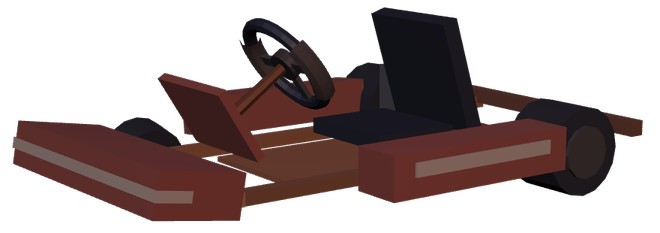
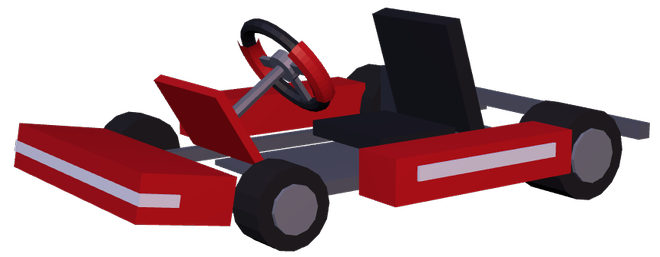
Fim do ep. 2: kart arrumado nas cores da Vórtex, placa VÓRTEX RACING TEAM em neon e textos (a roda voltou, o Rui não)

diff --git a/index.html b/index.html
@@ -2,10 +2,10 @@
 <html lang="pt-BR">
 <meta charset="utf-8">
 <meta name="viewport" content="width=device-width, initial-scale=1, viewport-fit=cover">
-<title>Seletiva de pilotos: a vaga está aberta</title>
-<meta name="description" content="O Rui foi buscar a roda e não voltou. Faça o teste de reflexo e dispute a vaga de piloto da equipe dos seguidores.">
+<title>Seletiva Vórtex: a vaga de piloto está aberta</title>
+<meta name="description" content="A roda voltou, mas o Rui não. Faça o teste de reflexo e dispute uma vaga de piloto na Vórtex Racing Team.">
 <meta name="theme-color" content="#070b1d">
-<meta property="og:title" content="Seletiva de pilotos: a vaga está aberta">
+<meta property="og:title" content="Seletiva Vórtex: a vaga de piloto está aberta">
 <meta property="og:description" content="As lâmpadas da garagem apagaram? Toca! Os mais rápidos viram os pilotos da equipe.">
 <link rel="icon" type="image/svg+xml" href="favicon.svg">
 <link rel="preconnect" href="https://fonts.googleapis.com">
@@ -72,9 +72,20 @@
       repeating-linear-gradient(180deg, var(--parede) 0 26px, var(--tabua) 26px 29px);
   }
   /* porta de enrolar à esquerda e mural de cortiça à direita, como na garagem do ep. 1 */
-  #palco::before { content: ""; position: absolute; z-index: -1; left: -6%; top: 22%; width: 38%; height: 52%; background: repeating-linear-gradient(180deg, #5d5a62 0 13px, #4a474f 13px 16px); border-radius: 0 6px 0 0; opacity: .8; }
+  #palco::before { content: ""; position: absolute; z-index: -1; left: -6%; top: 38%; width: 38%; height: 34%; background: repeating-linear-gradient(180deg, #5d5a62 0 13px, #4a474f 13px 16px); border-radius: 0 6px 0 0; opacity: .8; }
   #palco::after { content: ""; position: absolute; z-index: -1; right: 5%; top: 24%; width: 34%; height: 25%; background: var(--cortica); border-radius: 4px; box-shadow: inset 0 0 0 5px #8f5c31; opacity: .85; }
   .papel { position: absolute; z-index: 0; right: 9%; top: 25.5%; width: 26%; aspect-ratio: 4 / 3; background: #f4efe1; transform: rotate(3deg); color: #1b1b22; font-size: clamp(9px, 2.7vw, 14px); box-shadow: 0 3px 6px rgba(0,0,0,.35); font-weight: 900; text-align: center; line-height: 1.1; padding: 4px 2px; box-sizing: border-box; display: grid; place-items: center; }
+  /* placa da equipe em neon, igual à da porta no ep. 2 */
+  .placa { position: absolute; z-index: 0; left: 5%; top: 22.5%; width: 52%; display: flex; align-items: center; gap: 4%; padding: 2.2% 3%; box-sizing: border-box; background: linear-gradient(#1b1c24, #121319); border: 2px solid #2c2e3a; border-radius: 6px; box-shadow: 0 4px 10px rgba(0,0,0,.45), 0 0 22px rgba(255,42,42,.28); filter: drop-shadow(0 0 5px rgba(255,42,42,.55)); animation: neon 1.4s steps(1) 1 both; }
+  .placa .redemoinho { width: 22%; flex: none; overflow: visible; }
+  .placa .redemoinho g { transform-origin: center; animation: gira 7s linear infinite; }
+  .placa > div { display: flex; flex-direction: column; align-items: flex-start; line-height: .92; min-width: 0; }
+  .placa .vx { padding: .14em .06em 0 0; line-height: 1; font-weight: 900; font-style: italic; font-size: clamp(17px, 5.6vw, 30px); letter-spacing: .02em; transform: skewX(-10deg); background: linear-gradient(#ffffff 45%, #ffb3b3 60%, #ff2a2a); -webkit-background-clip: text; background-clip: text; color: transparent; -webkit-text-stroke: 1px #7a0a0e; }
+  .placa .rt { display: flex; align-items: center; gap: 4px; font-weight: 900; font-size: clamp(5.5px, 1.6vw, 9px); letter-spacing: .2em; color: #fff; margin-top: 2px; white-space: nowrap; }
+  .placa .rt i { width: 1.6em; height: 2px; background: #ff2a2a; }
+  @keyframes gira { to { transform: rotate(-360deg); } }
+  @keyframes neon { 0% { opacity: .15; } 10% { opacity: 1; } 18% { opacity: .2; } 26% { opacity: 1; } 34% { opacity: .35; } 42%, 100% { opacity: 1; } }
+  @media (prefers-reduced-motion: reduce) { .placa, .placa .redemoinho g { animation: none; } }
   .papel b { color: var(--vermelho); display: block; font-size: 1.25em; letter-spacing: -.02em; }
   .papel::before { content: ""; position: absolute; top: 4px; left: 50%; width: 8px; height: 8px; margin-left: -4px; border-radius: 50%; background: var(--vermelho); }
   #palco.acesas { box-shadow: var(--sombra), inset 0 0 120px rgba(255,40,30,.22); }
@@ -196,12 +207,13 @@
       <span class="tag amarela">Vaga aberta</span>
       <button class="chip" id="som" type="button" aria-pressed="true">🔊</button>
     </div>
-    <h1><span class="antes">o rui foi buscar a roda e não voltou.</span><span class="forte">quem vai pilotar?</span></h1>
+    <h1><span class="antes">a roda voltou. o rui, não.</span><span class="forte">quem vai pilotar?</span></h1>
     <div class="pips"><div class="pip"></div><div class="pip"></div><div class="pip"></div><div class="pip"></div><div class="pip"></div><span class="contador" id="contador">Largada 1/5</span></div>
   </header>
 
   <main id="palco" aria-live="polite">
-    <div class="papel" aria-hidden="true"><div><b>PROCURA-SE</b>piloto<br>(e uma roda)</div></div>
+    <div class="placa" aria-hidden="true"><svg class="redemoinho" viewBox="-50 -50 100 100"><g><path d="M 0 -40 A 40 40 0 0 1 34.6 20" fill="none" stroke="#fff" stroke-width="14" stroke-linecap="round"/><path d="M 0 -40 A 40 40 0 0 1 34.6 20" transform="rotate(120)" fill="none" stroke="#ff2a2a" stroke-width="11" stroke-linecap="round"/><path d="M 0 -40 A 40 40 0 0 1 34.6 20" transform="rotate(240)" fill="none" stroke="#ff2a2a" stroke-width="8" stroke-linecap="round"/><path d="M 0 -20 A 20 20 0 0 1 17.3 10" transform="rotate(60)" fill="none" stroke="#ff8a8a" stroke-width="8" stroke-linecap="round"/><path d="M 0 -20 A 20 20 0 0 1 17.3 10" transform="rotate(180)" fill="none" stroke="#ff8a8a" stroke-width="8" stroke-linecap="round"/><path d="M 0 -20 A 20 20 0 0 1 17.3 10" transform="rotate(300)" fill="none" stroke="#ff8a8a" stroke-width="8" stroke-linecap="round"/></g></svg><div><div class="vx">VÓRTEX</div><div class="rt"><i></i>RACING TEAM<i></i></div></div></div>
+    <div class="papel" aria-hidden="true"><div><b>PROCURA-SE</b>pilotos<br>(5 vagas)</div></div>
     <div class="lampadas" aria-hidden="true"></div>
     <div class="meio">
       <div class="cronometro" id="cronometro">
@@ -210,8 +222,8 @@
       </div>
       <p class="status" id="status"></p>
     </div>
-    <!-- o kart enferrujado do ep. 1, sem a roda dianteira (render 3D da série: src/equipe/KartSite.tsx) -->
-    <img class="kart" src="kart.png" width="660" height="233" alt="" draggable="false">
+    <!-- o kart arrumado do fim do ep. 2, nas cores da Vórtex (render 3D da série: src/equipe/KartSite.tsx) -->
+    <img class="kart" src="kart.png?v=2" width="660" height="257" alt="" draggable="false">
 
     <section id="resultado" hidden>
       <div class="card ficha">
@@ -265,7 +277,7 @@
       </div>
       <div id="intro-avatar"></div>
     </div>
-    <p>O Rui foi buscar a roda e não voltou. A <b id="nome-equipe">equipe dos seguidores</b> precisa de gente no volante: <b>Piloto 1</b>, <b>Piloto 2</b> e <b>pilotos de teste</b>.</p>
+    <p>A roda voltou, mas o Rui não. A <b id="nome-equipe">Vórtex</b> precisa de gente no volante: <b>Piloto 1</b>, <b>Piloto 2</b> e <b>pilotos de teste</b>.</p>
     <ul class="fatos">
       <li><b class="n">1</b><span>As 5 lâmpadas da garagem acendem, uma por segundo. Quando todas apagarem, toque na tela (no computador, barra de espaço). Cada rodada tem 5 largadas.</span></li>
       <li><b class="n">2</b><span>Tocou com a luz acesa? Largada queimada: vale 1 segundo na sua média.</span></li>
@@ -281,7 +293,7 @@
 
 <script>
   // ---------- AJUSTE AQUI ----------
-  const EQUIPE = "equipe dos seguidores"; // o nome ainda está sendo escolhido nos comentários do ep. 1
+  const EQUIPE = "Vórtex";               // nome dado pelo Nando no ep. 2
   const PERFIL = "@formula1explica";      // aparece no card de story
   const PILOTOS_TESTE = 3;                // vagas de piloto de teste depois do Piloto 1 e 2
   // ---------------------------------
@@ -446,7 +458,7 @@
     [400, "Mecânico", "bone", "Mão boa na chave de roda. O volante ainda pede um pouco mais."],
     [479, "Auxiliar de equipe", "caixa", "Sem você nada sai da garagem. O volante ainda está longe."],
     [515, "Equipe de marketing", "celular", "Reflexo de story: posta o resultado e chama a galera."],
-    [Infinity, "Buscar a roda", "roda", "Leva uma lanterna. O Rui também foi e não voltou."],
+    [Infinity, "Buscar a roda", "roda", "Leva uma lanterna. Foi assim que o Rui sumiu."],
   ];
   const funcaoDe = (ms) => FUNCOES.find((f) => ms < f[0]);
   const mediaRodada = () => tempos.reduce((s, t) => s + t.ms, 0) / LARGADAS;
@@ -536,7 +548,7 @@
       g.fillStyle = "#f4f4f4"; g.beginPath(); g.roundRect(x - 84, 186, 168, 12, 6); g.fill();
       g.fillStyle = "#5a5660"; g.beginPath(); g.ellipse(x, 214, 24, 22, 0, 0, 7); g.fill();
     }
-    pilulaCanvas(g, 80, 330, "• SELETIVA DE PILOTOS", "#d7191f", "#fff", 42);
+    pilulaCanvas(g, 80, 330, "• SELETIVA VÓRTEX", "#d7191f", "#fff", 42);
     g.fillStyle = "rgba(255,255,255,.6)"; g.font = "800 50px Nunito"; g.fillText("minha média em 5 largadas", 80, 520);
     g.fillStyle = "#fff"; g.font = "900 230px Nunito"; g.shadowColor = "rgba(0,0,0,.5)"; g.shadowBlur = 24; g.fillText(fmt(mediaRodada()) + " s", 64, 740); g.shadowBlur = 0;
     g.fillStyle = "rgba(255,255,255,.6)"; g.font = "800 44px Nunito"; g.fillText("na equipe eu seria", 80, 850);
